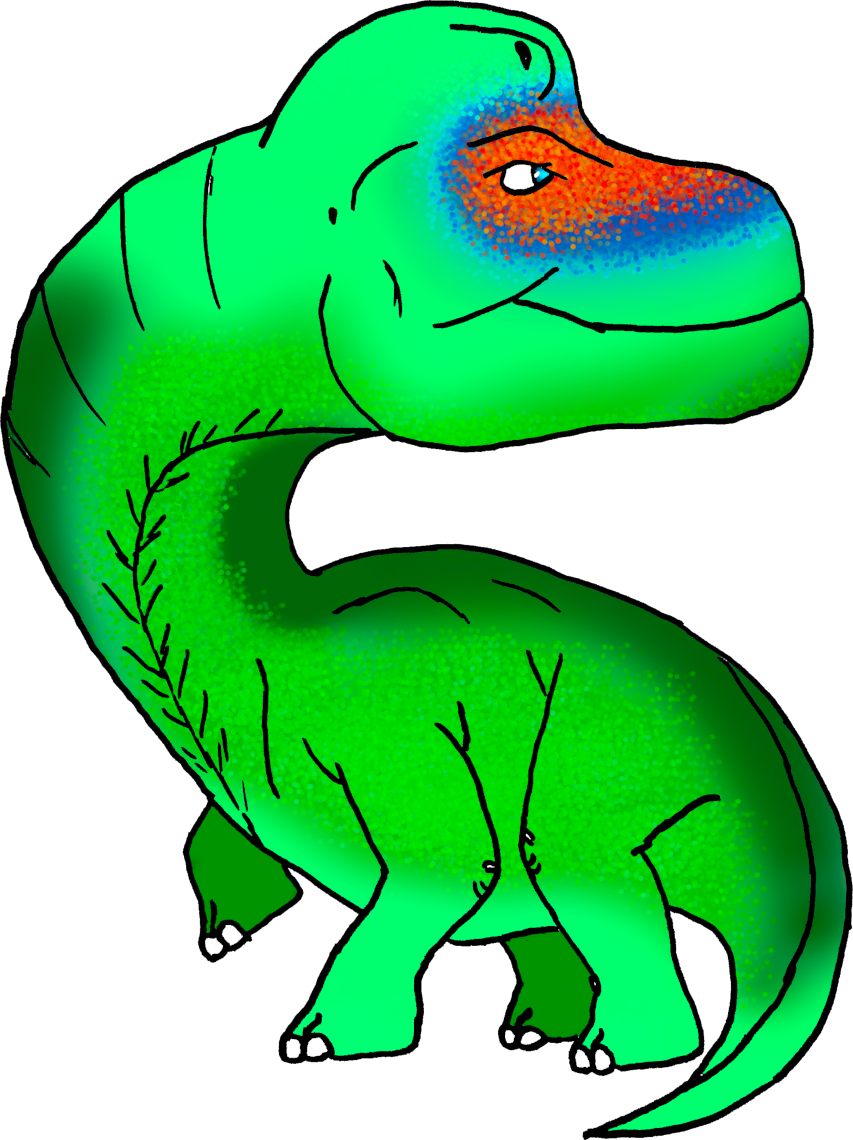
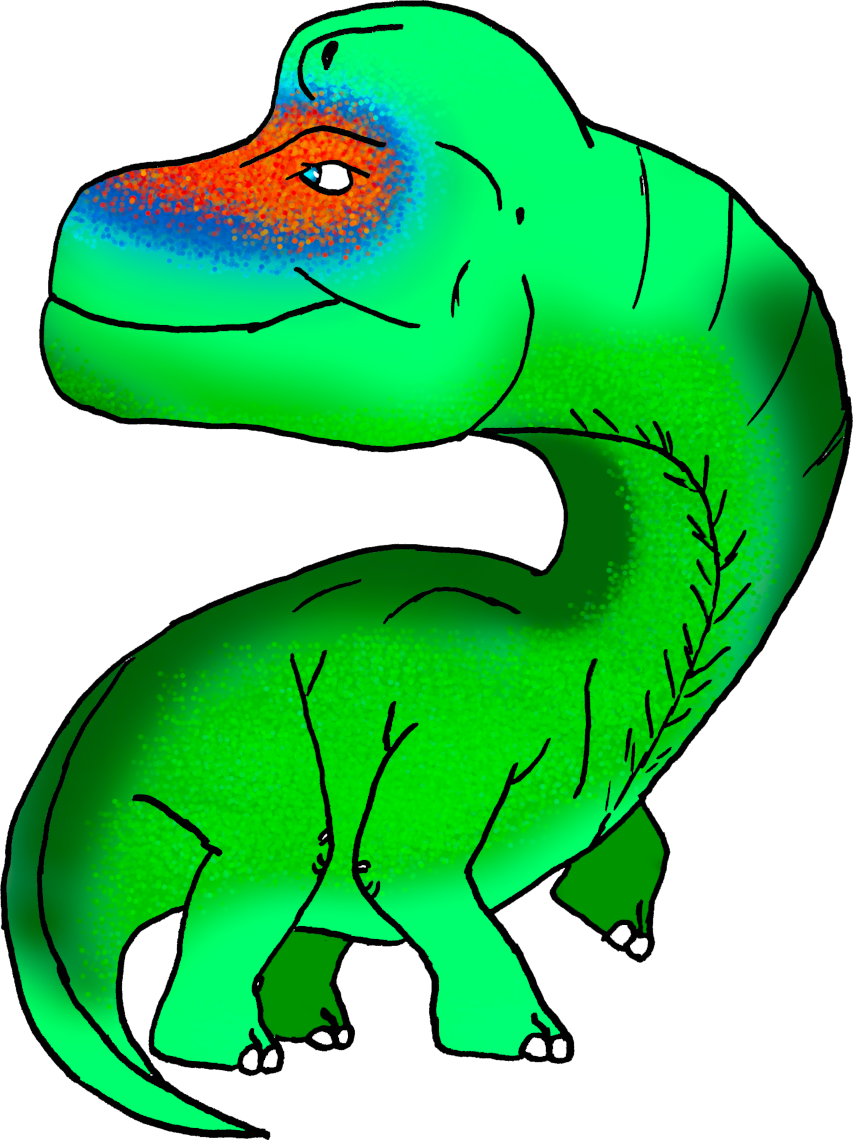
Character Direction Updates with img resources to match

diff --git a/Basic.html b/Basic.html
@@ -56,7 +56,7 @@ else if (canvasHeight < 900) {
 }
 
 function startGame() {
-    myGamePiece = new component(canvasWidth/16, canvasHeight/9, "assets/Dino-2.png", canvasWidth/2, canvasHeight-25, "image");
+    myGamePiece = new component(canvasWidth/16, canvasHeight/9, "assets/Dino-2.png", canvasWidth/2, canvasHeight-25, "image", "assets/Dino-2-flipped.png");
     myGamePiece.gravity = 0.05;
     myScore = new component("30px", "Consolas", "black", 10, 30, "text");
     document.getElementById("start").innerHTML = "<button onclick=\"accelerate(-0.5)\">Jump</button>";
@@ -179,11 +179,16 @@ function updateGameArea() {
             //console.log("myRound set to " + myRound);
         }
     }
+
     myGameArea.clear();
     document.onkeydown = checkKey;
     myGameArea.frameCount += 1;
-    if (leftPressed){myGameArea.frameNo += -1;}
-    if (rightPressed){myGameArea.frameNo += 1;}
+    if (leftPressed){
+        myGameArea.frameNo += -1;
+    }
+    if (rightPressed){
+        myGameArea.frameNo += 1;
+    }
     
     /* Consider possible changing the interval as well as the number of meteors on round change
      * to better facilitate difficulty levels.
@@ -274,11 +279,19 @@ function checkKey(e){
         // left arrow or 'a' pressed
         leftPressed = true;
         rightPressed = false;
+        var temp = myGamePiece.image.src;
+            myGamePiece.image = new Image();
+            myGamePiece.image.src = myGamePiece.altImageSrc;
+            myGamePiece.altImageSrc = temp;
     }
     else if (e.keyCode == '39' || e.keyCode == '68'){ // Move character right
         // right arrow  or 'd' pressed
         rightPressed = true;
         leftPressed = false;
+        var temp = myGamePiece.image.src;
+            myGamePiece.image = new Image();
+            myGamePiece.image.src = myGamePiece.altImageSrc;
+            myGamePiece.altImageSrc = temp;
     }
 }
 </script>
